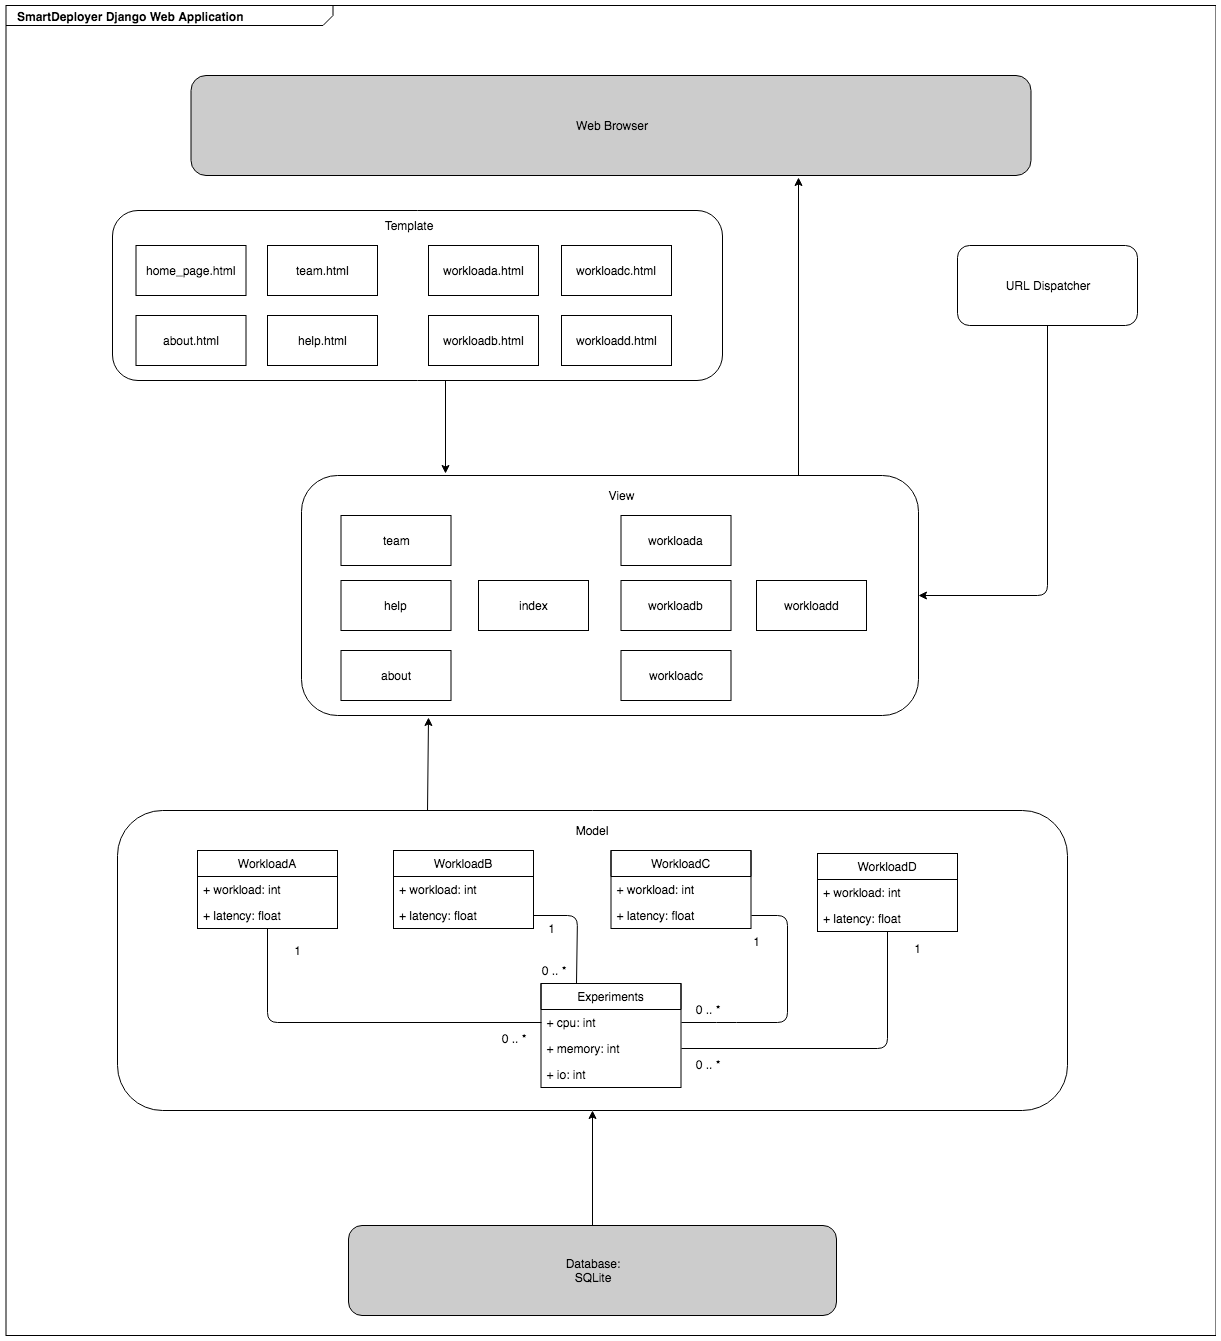
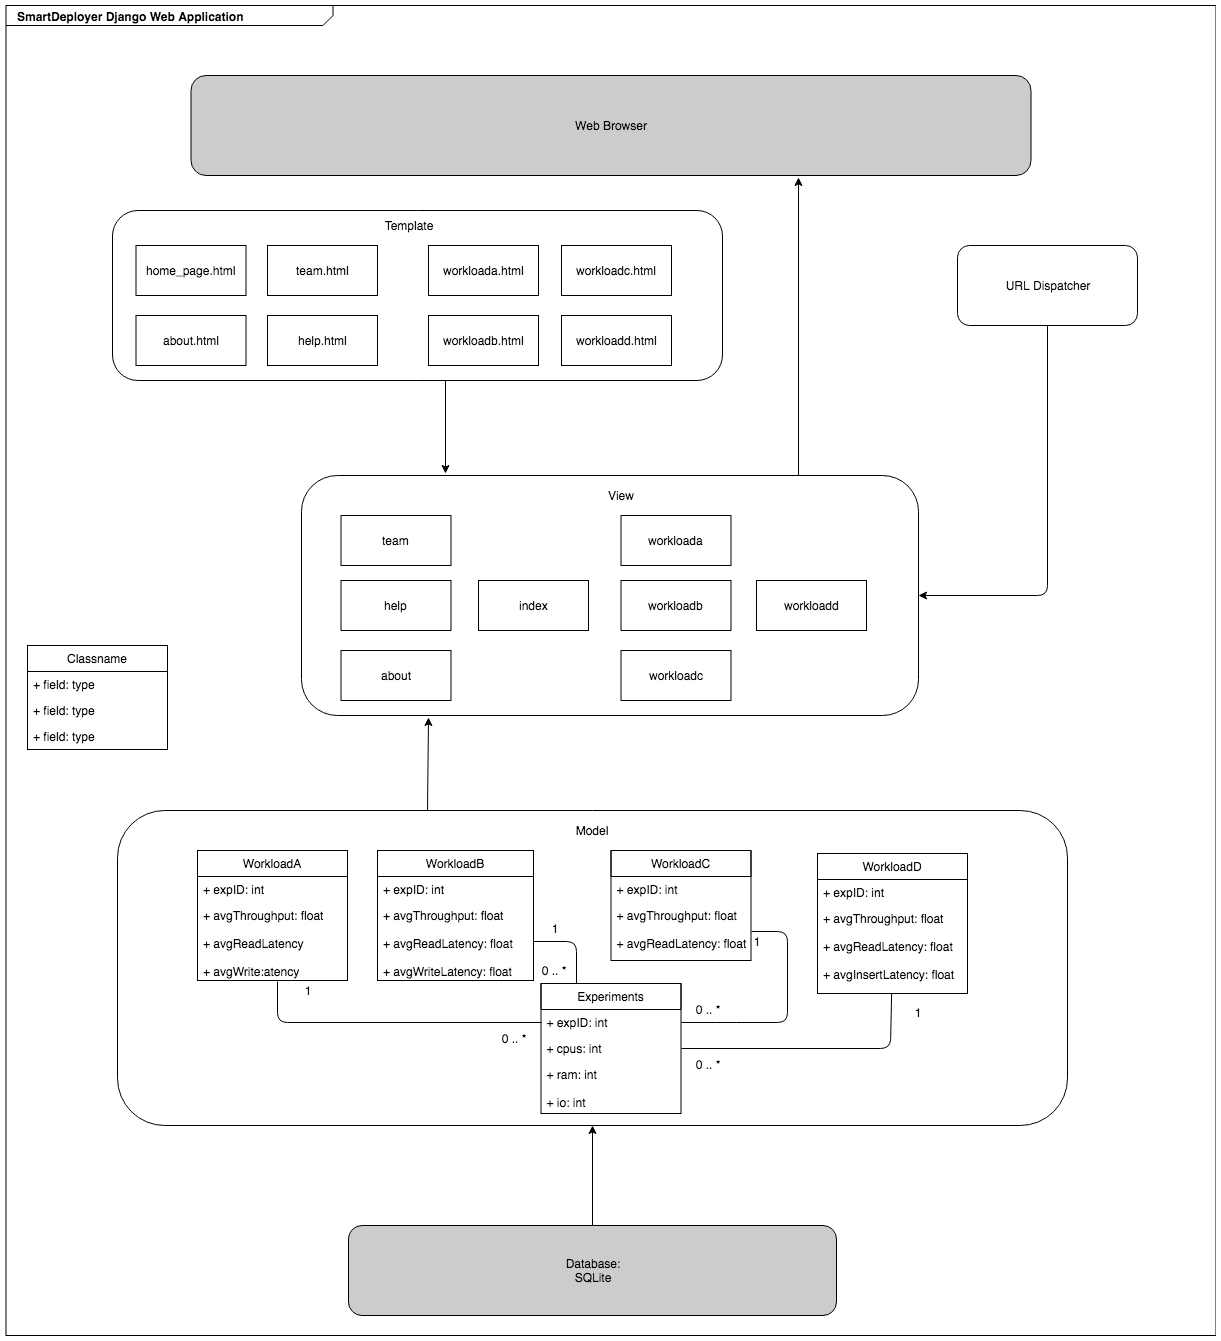
update webapp uml

diff --git a/Web/smartDeployer/results/models.py b/Web/smartDeployer/results/models.py
@@ -5,7 +5,7 @@ from django.db import models
 class WorkloadA(models.Model):
     exp = models.TextField()
     avgThroughput = models.FloatField()
-    avgReadLatency = models.FloatField()
+e    avgReadLatency = models.FloatField()
     avgWriteLatency = models.FloatField()
 
 class WorkloadB(models.Model):
